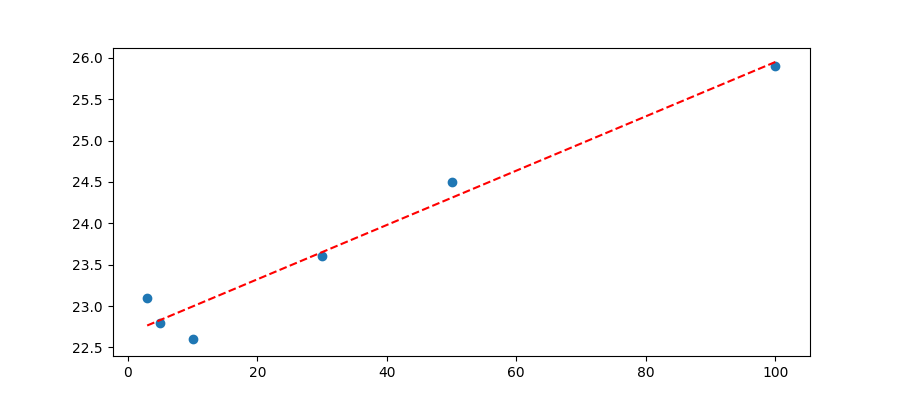
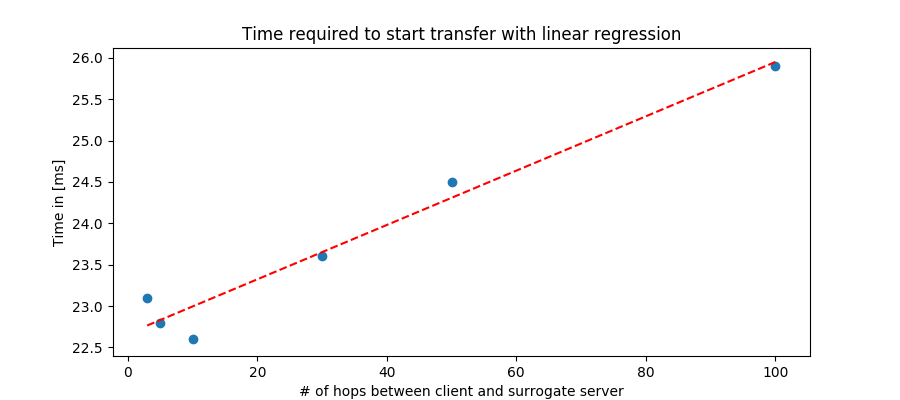
updated titles and axises

diff --git a/parser/graphs_linear_delay.py b/parser/graphs_linear_delay.py
@@ -81,12 +81,17 @@ for cnf in config:
         plt.figure(figsize=figsize)
         plt.plot(map(int, topos),p(map(int, topos)),"r--")
         plt.scatter(map(int, topos), mean_arr)
+        plt.title('Time required to start transfer with linear regression')
+        plt.ylabel('Time in [ms]')
+        plt.xlabel('# of hops between client and surrogate server')
         plt.savefig(curdir + '/' + graphsfolder + '/startransfer_'+ cnf +'_trendline_'+ meas +'.png')
         plt.close()
 
         plt.figure(figsize=figsize)
         plt.plot(map(int, topos),p(map(int, topos)),"r--")
-        # plt.scatter(map(int, topos), mean_arr)
         plt.errorbar(map(int, topos), mean_arr, err, linestyle='None', marker='o')
+        plt.title('Time required to start transfer with linear regression')
+        plt.ylabel('Time in [ms]')
+        plt.xlabel('# of hops between client and surrogate server')
         plt.savefig(curdir + '/' + graphsfolder + '/startransfer_'+ cnf +'_combo_'+ meas +'.png')
         plt.close()
